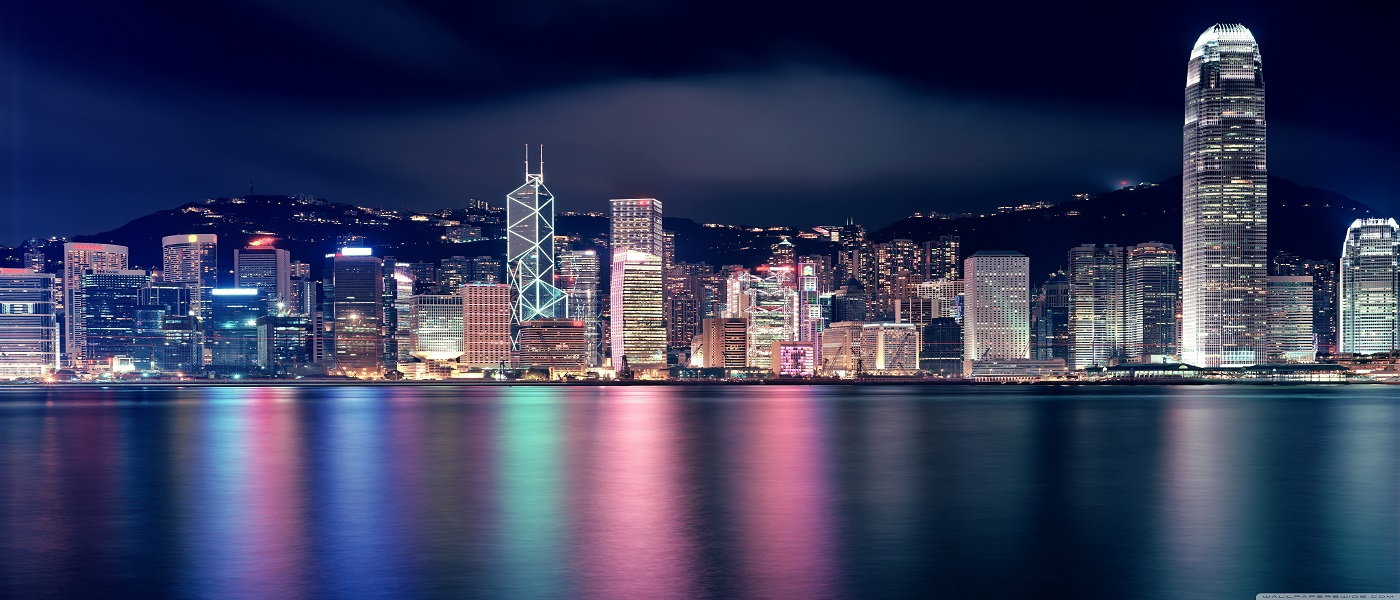
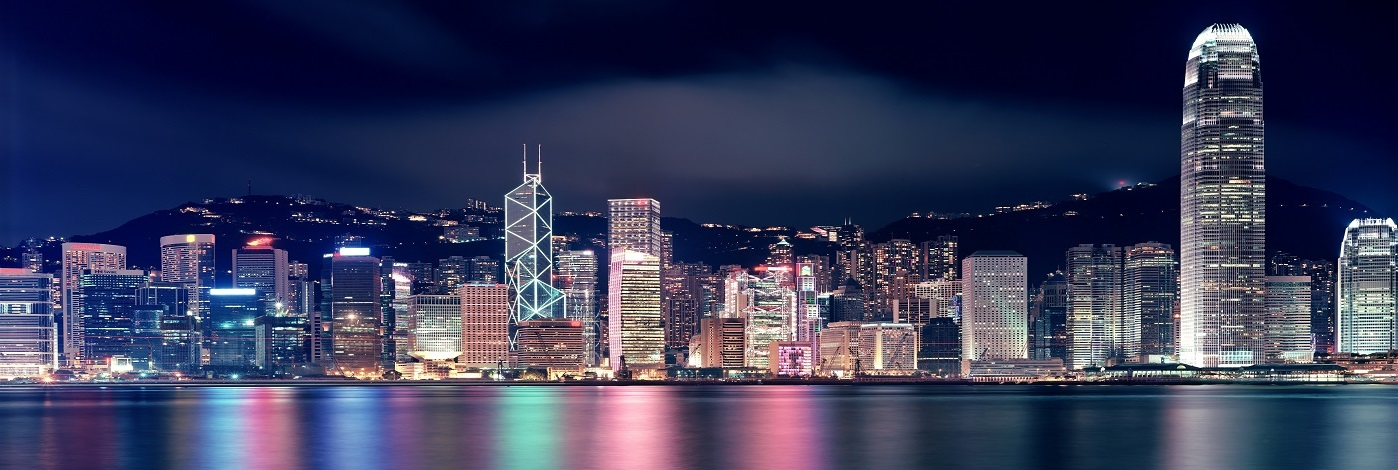
增加首页新闻模块

diff --git a/app/index.html b/app/index.html
@@ -56,9 +56,9 @@
 
     <!--大图区-->
     <div class="bgpic">
-      <div class="container">
-        <img class="img-responsive"src="images/bg-1.jpg" alt="">
-      </div>
+        <div class="row">
+          <img class="hidden-xs col-md-12"src="images/bg-1.jpg" alt="">
+        </div>
     </div>
 
     <!--内容区-->
@@ -91,51 +91,164 @@
 
           <!--学生之区-->
           <div class="row">
-            <!--Laura-->
-            <div class="col-sm-12 col-md-4">
-              <div class="thumbnail">
-                <img src="images/Laura.jpg">
-                <div class="caption">
-                  <h3>Laura</h3>
-                  <p>
-                    记得刚开始来自各个地区的人都羞答答地介绍着自己，到后来大胆着展示着连夜完成的presentation；刚开始大家还非常拘谨，到后来都称兄道弟，依依不舍地离别；还有刚开始像老师一样的mentor，到最后唱K游玩闹成一片...如果说我带着太高的期望去参加这次实习，那么我收获的是真实，一次真实的培训，
-                  </p>
-                  <p><a href="#" class="btn btn-primary" role="button">详情</a></p>
-                </div>
-              </div>
-            </div>
-              <!--Jessie-->
-              <div class="col-sm-12 col-md-4">
-              <div class="thumbnail">
-                <img src="images/Jessie.jpg">
-                <div class="caption">
-                  <h3>Laura</h3>
-                  <p>
-                    非常有幸的，我得以参加腾飞策划的PFP rogram项目，我寒假在香港AIA（美国友邦）进行为期七天的金融行业研习。在这七天酸甜苦辣的交融里，我的收获难以用言语形容。“一场旅行，目的地并不是最重要的，重要的是一路同行的人。希望这段旅程能与你同行，会成为我今后最美好的回忆.
-                    两位导师必定是七天
-                  </p>
-                  <p><a href="#" class="btn btn-primary" role="button">详情</a></p>
-                </div>
-              </div>
-            </div>
              <!--Echo-->
-              <div class="col-sm-12 col-md-4">
-              <div class="thumbnail">
-                <img src="images/Echo.jpg">
-                <div class="caption">
-                  <h3>Echo</h3>
-                  <p>
-                    说起来去年寒假到香港参加PFP这个项目才是真正促进我努力争取香港理工大学exchange的最大动力。
-                    在项目过程中我真切地感受到了香港给我的第一次的气息。也许是学员们和导师们认真的态度，也许是一起努力做项目漫长困顿的深夜，也许是在项目讨论中争吵起来的我们。让我顿时有了这种想法：真的很想留在这个繁忙又有点儿拥挤却很有味道的地方感受在这儿的人们是如何生活如何学习如何工作又或者是 -- 如何生存的。
+              <div class="col-sm-6 col-md-3">
+                <div class="thumbnail">
+                  <img class="img-responsive" src="images/Echo.jpg">
+                  <div class="caption">
+                    <h3>Echo<small>【学生之声】</small></h3>
+                    <p>
+                      说起来去年寒假到香港参加PFP这个项目才是真正促进我努力争取香港理工大学exchange的最大动力。
+                      在项目过程中我真切地感受到了香港给我的第一次的气息。也许是学员们和导师们认真的态度，也许是一起努力做项目漫长困顿的深夜，也许是在项目讨论中争吵起来的我们。让我顿时有了这种想法：真的很想留在这个繁忙又有点儿拥挤却很有味道的地方感受在这儿的人们是如何生活如何学习如何工作又或者是 -- 如何生存的。
 
-                  </p>
-                  <p><a href="#" class="btn btn-primary" role="button">详情</a></p>
+                    </p>
+                    <p><a href="#" class="btn btn-primary" role="button">详情</a></p>
+                  </div>
                 </div>
-              </div>
-            </div>
+             </div>
+               <!--Echo-->
+              <div class="col-sm-6 col-md-3">
+                <div class="thumbnail">
+                  <img src="images/Echo.jpg">
+                  <div class="caption">
+                    <h3>Echo<small>【学生之声】</small></h3>
+                    <p>
+                      说起来去年寒假到香港参加PFP这个项目才是真正促进我努力争取香港理工大学exchange的最大动力。
+                      在项目过程中我真切地感受到了香港给我的第一次的气息。也许是学员们和导师们认真的态度，也许是一起努力做项目漫长困顿的深夜，也许是在项目讨论中争吵起来的我们。让我顿时有了这种想法：真的很想留在这个繁忙又有点儿拥挤却很有味道的地方感受在这儿的人们是如何生活如何学习如何工作又或者是 -- 如何生存的。
+
+                    </p>
+                    <p><a href="#" class="btn btn-primary" role="button">详情</a></p>
+                  </div>
+                </div>
+             </div>
+             <!--Echo-->
+              <div class="col-sm-6 col-md-3">
+                <div class="thumbnail">
+                  <img src="images/Echo.jpg">
+                  <div class="caption">
+                    <h3>Echo<small>【学生之声】</small></h3>
+                    <p>
+                      说起来去年寒假到香港参加PFP这个项目才是真正促进我努力争取香港理工大学exchange的最大动力。
+                      在项目过程中我真切地感受到了香港给我的第一次的气息。也许是学员们和导师们认真的态度，也许是一起努力做项目漫长困顿的深夜，也许是在项目讨论中争吵起来的我们。让我顿时有了这种想法：真的很想留在这个繁忙又有点儿拥挤却很有味道的地方感受在这儿的人们是如何生活如何学习如何工作又或者是 -- 如何生存的。
+
+                    </p>
+                    <p><a href="#" class="btn btn-primary" role="button">详情</a></p>
+                  </div>
+                </div>
+             </div>
+
+              <!--Echo-->
+              <div class="col-sm-6 col-md-3">
+                <div class="thumbnail">
+                  <img src="images/Echo.jpg">
+                  <div class="caption">
+                    <h3>Echo<small>【学生之声】</small></h3>
+                    <p>
+                      说起来去年寒假到香港参加PFP这个项目才是真正促进我努力争取香港理工大学exchange的最大动力。
+                      在项目过程中我真切地感受到了香港给我的第一次的气息。也许是学员们和导师们认真的态度，也许是一起努力做项目漫长困顿的深夜，也许是在项目讨论中争吵起来的我们。让我顿时有了这种想法：真的很想留在这个繁忙又有点儿拥挤却很有味道的地方感受在这儿的人们是如何生活如何学习如何工作又或者是 -- 如何生存的。
+
+                    </p>
+                    <p><a href="#" class="btn btn-primary" role="button">详情</a></p>
+                  </div>
+                </div>
+             </div>
 
           </div>
+          <!--新闻区-->
 
+          <div class="row">
+            <!--新闻1-->
+              <div class="col-sm-12 col-md-6">
+                  <article>
+                    <div class="post-head">
+                      <h1 class="post-title">新闻标题1</h1>
+                      <div class="post-meta">
+                        <span class="author">作者：<b>Mr.zhang</b></span>
+                        <time class="post-date">&nbsp;&nbsp;2015年9月26日</time>
+                      </div>
+                    </div>
+                    <div class="post-content">
+                      <p>记得刚开始来自各个地区的人都羞答答地介绍着自己，到后来大胆着展示着连夜完成的presentation；刚开始大家还非常拘谨，到后来都称兄道弟，记得刚开始来自各个地区的人都羞答答地介绍着自己，到后来大胆着展示着连夜完成的presentation；刚开始大家还非常拘谨，到后来都称兄道弟,记得刚开始来自各个地区的人都羞答答地介绍着自己，到后来大胆着展示着连夜完成的presentation；刚开始大家还非常拘谨，到后来都称兄道弟</p>
+                    </div>
+                    <div class="post-footer">
+                      <a href="" class="btn btn-default">阅读全文</a>
+                    </div>
+                    <div class="post-category">
+                      <span class="glyphicon glyphicon-tag" aria-hidden="true"></span>
+                      <span class="tag">&nbsp;&nbsp;学员回馈</span>
+                    </div>
+                  </article>
+              </div>
+
+          <!--新闻2-->
+              <div class="col-sm-12 col-md-6">
+                  <article>
+                    <div class="post-head">
+                      <h1 class="post-title">新闻标题2</h1>
+                      <div class="post-meta">
+                        <span class="author">作者：<b>Mr.zhang</b></span>
+                        <time class="post-date">&nbsp;&nbsp;2015年9月26日</time>
+                      </div>
+                    </div>
+                    <div class="post-content">
+                      <p>记得刚开始来自各个地区的人都羞答答地介绍着自己，到后来大胆着展示着连夜完成的presentation；刚开始大家还非常拘谨，到后来都称兄道</p>
+                    </div>
+                    <div class="post-footer">
+                      <a href="" class="btn btn-default">阅读全文</a>
+                    </div>
+                    <div class="post-category">
+                      <span class="glyphicon glyphicon-tag" aria-hidden="true"></span>
+                      <span class="tag">&nbsp;&nbsp;学员回馈</span>
+                    </div>
+                  </article>
+              </div>
+
+          <!--新闻3-->
+              <div class="col-sm-12 col-md-6">
+                  <article>
+                    <div class="post-head">
+                      <h1 class="post-title">新闻标题3</h1>
+                      <div class="post-meta">
+                        <span class="author">作者：<b>Mr.zhang</b></span>
+                        <time class="post-date">&nbsp;&nbsp;2015年9月26日</time>
+                      </div>
+                    </div>
+                    <div class="post-content">
+                      <p>记得刚开始来自各个地区的人都羞答答地介绍着自己，到后来大胆着展示着连夜完成的presentation；刚开始大家还非常拘谨，到后来都称兄道</p>
+                    </div>
+                    <div class="post-footer">
+                      <a href="" class="btn btn-default">阅读全文</a>
+                    </div>
+                    <div class="post-category">
+                      <span class="glyphicon glyphicon-tag" aria-hidden="true"></span>
+                      <span class="tag">&nbsp;&nbsp;学员回馈</span>
+                    </div>
+                  </article>
+              </div>
+
+          <!--新闻4-->
+              <div class="col-sm-12 col-md-6">
+                  <article>
+                    <div class="post-head">
+                      <h1 class="post-title">新闻标题4</h1>
+                      <div class="post-meta">
+                        <span class="author">作者：<b>Mr.zhang</b></span>
+                        <time class="post-date">&nbsp;&nbsp;2015年9月26日</time>
+                      </div>
+                    </div>
+                    <div class="post-content">
+                      <p>记得刚开始来自各个地区的人都羞答答地介绍着自己，到后来大胆着展示着连夜完成的presentation；刚开始大家还非常拘谨，到后来都称兄道</p>
+                    </div>
+                    <div class="post-footer">
+                      <a href="" class="btn btn-default">阅读全文</a>
+                    </div>
+                    <div class="post-category">
+                      <span class="glyphicon glyphicon-tag" aria-hidden="true"></span>
+                      <span class="tag">&nbsp;&nbsp;学员回馈</span>
+                    </div>
+                  </article>
+              </div>
+          </div>
           <!--真诚的友谊-->
           <div class="intro">
             <p class="intro-title">真诚的友谊</p>
@@ -145,7 +258,7 @@
           </div>
 
           <!--高端的人脉-->
-           <div class="intro">
+           <div class="intro ">
             <p class="intro-title">高端的人脉</p>
             <p class="intro-body">
               每一位导师都是业界精英，每一位学员都是未来人才。一周的培训学习，不仅给予你知识，还将给予你无可估量的高端人脉。每当项目结束之后，导师与学员之间仍会保持联系，既可以为学员解答专业问题，也可以与学员一同分享生活的点滴，亦师亦友，认识他们会是你人生中珍贵的一笔财富。
@@ -182,7 +295,7 @@
         <!--电话-->
         <address>
           <span class="glyphicon glyphicon-phone-alt" aria-hidden="true"></span>
-          <abbr title="Phone">P:</abbr><br>
+          Phone:<br>
           HONGKONG TEL：+（852）37570899 <br>
           CHINA TEL：+（86）15913179974 <br>
         </address>
@@ -190,7 +303,7 @@
         <!--email-->
         <address>
           <span class="glyphicon glyphicon-envelope" aria-hidden="true"></span>
-          <strong>邮箱</strong><br>
+          <strong>Email</strong><br>
           Email: admin@palhk.co
         </address>
 

diff --git a/app/styles/screen.scss b/app/styles/screen.scss
@@ -18,6 +18,7 @@ $icon-font-path: "../bower_components/bootstrap-sass/assets/fonts/bootstrap/";
 // endbower
 /*全局样式*/
 body {
+  background-color: #F9F6F6;
   font:{
   	size:14px;
   	family:"微软雅黑,Helvetica Neue,Helvetica,Arial,sans-serif";
@@ -49,23 +50,75 @@ body {
 /*大图*/
 .bgpic{
 	margin-top: 15px;
+	width: 100%;
 }
 
 /*内容区*/
 .content{
 	margin-top: 20px;
-	.intro{
+	//新闻发布区
+	article{
+		padding: 15px;
+		background-color: #fff;
 		margin-bottom: 20px;
-		text-align: center;
-		border-bottom: 1px solid #d9d9d9;
+		//头部
+		.post-head{
+			text-align: center;
+			.post-title{
+				font:{
+					size:2em;
+					weight:400;
+				}
+				color:#303030;
+			}
+			.post-meta{
+				color:#959595;
+				line-height: 25px;
+				b{
+					color:#00AFC4;
+				}
+			}
+
+		}
+		//正文摘要,需要限定高度
+		.post-content{
+			height:90px;
+			margin-top: 10px;
+			overflow: hidden;
+			text-overflow:ellipsis;
+			p{
+				text-indent: 2em;
+				line-height: 28px;
+				font-size: 16px;
+			}
+		}
+		//正文底部
+		//类别
+		.post-category{
+			height:30px;
+			padding-top: 20px;
+			color:#959595;
+		}
 	}
-	.intro-title{
-		font-size: 30px;
-	}
-	.intro-body{
-		font-size: 15px;
-		color:#666;
-		line-height: 25px;
+	//简介区
+	.intro{
+		margin: 0 auto;
+		margin-bottom: 20px;
+		text-align:center;
+		background-color: #fff;
+		padding: 15px;
+		border:{
+			bottom: 1px solid #d9d9d9;
+			left:2px solid #1b809e;
+		}
+		.intro-title{
+			font-size: 30px;
+		}
+		.intro-body{
+			font-size: 15px;
+			color:#666;
+			line-height: 25px;
+		}
 	}
 }
 .section-title{
@@ -77,7 +130,6 @@ body {
 
 /*底部*/
 .footer{
-	height:260px;
 	background-color: $base-color;
 	color:white;
 }

diff --git a/app/styles/_variables.scss b/app/styles/_variables.scss
@@ -9,3 +9,7 @@ $navbar-default-link-hover-color:#00AFC4;
 
 $jumbotron-font-size:15px;
 $jumbotron-heading-font-size:30px;
+$jumbotron-bg:#fff;
+
+$btn-default-bg:#00AFC4;
+$btn-default-color:#fff;
